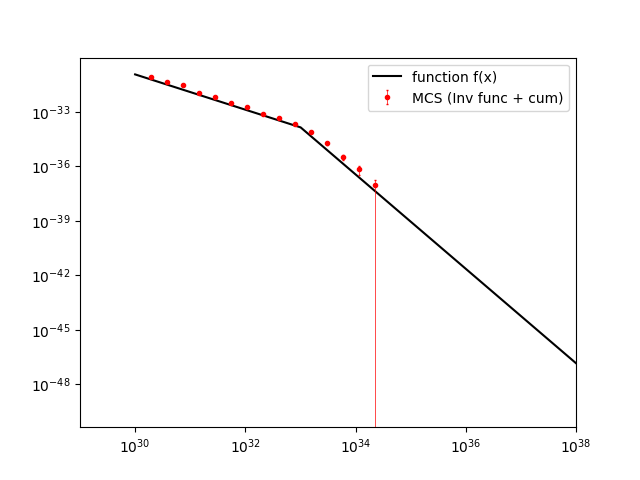
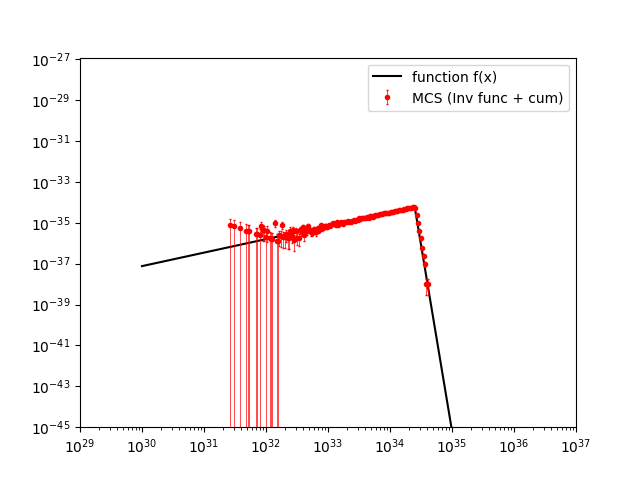
comments + comparing section + function improv

diff --git a/Montecarlo/montecarlo_test.py b/Montecarlo/montecarlo_test.py
@@ -15,7 +15,7 @@ from tools import bounded_norm_distr, bisection, newton_root_finder, log_scale_i
 start_time = time.monotonic()
 
 
-exercise = 5  #to execute only one exercise at time
+exercise = 9      #to execute only one exercise at time
 
 #**************************************************************
 #plotting config
@@ -92,7 +92,7 @@ elif exercise == 2:
 #REJECTION-ACCEPTANCE METHOD SAMPLING
 elif exercise == 3 :
  #RAM parameters
-    rng = np.random.default_rng()
+
 
     x_min = -1.0                            #interval of interest
     x_max = 1.0
@@ -101,7 +101,8 @@ elif exercise == 3 :
     sample_dim = 1.0e2                      #number of points in the sample
     n_bins = round(sample_dim**0.5)         #numbers of bins for scatter/hist plot
     M = 20.0                                # Parameter of selection (must be as small as possible) 
-  #-----------------------------------------------
+    rng = np.random.default_rng()
+ #-----------------------------------------------
  #Gaussian distr parameters   
     sigma = 1.0 
     mu = 0.0
@@ -110,8 +111,6 @@ elif exercise == 3 :
     k = 1.0       
     alpha = -2.0
     beta = 1.0
-
-    arg = ()  
     
     test_func = 1                   #use this to move between test functions f(x)         
 
@@ -140,7 +139,7 @@ elif exercise == 3 :
         #y = normal_distr(mu, sigma)
         u = rng.random()
 
-        discr = func_norm(y, myfunc, arg, x_min, x_max, 1.0) / M / gaussian(y, mu, sigma, x_min, x_max)
+        discr = func_norm(y, myfunc, x_min, x_max, 1.0) / M / gaussian(y, mu, sigma, x_min, x_max)
         if u < discr : 
             temp.append(y)
             counter += 1
@@ -167,7 +166,7 @@ elif exercise == 3 :
     #count, bins, ignored = ax.hist(x, n_bins, density=True)
     #ax.scatter(bin_means, y_n, marker = marker_st, color = marker_color)
     ax.errorbar(bin_means, y_n , yerr = y_err, color='r', capsize=1, capthick=1,ls='', elinewidth=0.5,marker='o',markersize=3, label = 'MCS (Rej-Acc method)')
-    ax.plot(draw, func_norm(draw, myfunc, arg, x_min, x_max, sample_dim)* bin_dim, color = "black", label = "function f(x)")
+    ax.plot(draw, func_norm(draw, myfunc, x_min, x_max, sample_dim)* bin_dim, color = "black", label = "function f(x)")
     #ax.plot(draw, myfunc(draw) /i , color = "black", label = "function f(x)")
 
 
@@ -176,7 +175,7 @@ elif exercise == 3 :
     plt.savefig(os.path.join("RAM_function_sample.png"))
 
 #**************************************************************
-#REJECTION-ACCEPTANCE METHOD MULTIPLE-SAMPLING
+#REJECTION-ACCEPTANCE METHOD MULTIPLE-SAMPLING (not working now)
 elif exercise == 4 : 
     
     x_min = 0.0
@@ -197,9 +196,9 @@ elif exercise == 4 :
 
     fig, ax = plt.subplots()
     
-    def func_norm(x, func, arg, x_min, x_max, sam_dim):
+    def func_norm(x, func, arg, x_min, x_max, sample_dim):
         i =  integrate.quad(func,x_min, x_max, arg, epsabs=abs_err, epsrel=rel_err)[0]
-        return func(x, *arg) / i * sam_dim
+        return func(x, *arg) / i * sample_dim
     
     def gaussian_norm(x , x0, sigma, x_min, x_max):
         norm1 = 1.0 / sigma / (2.0 * np.pi)**0.5
@@ -297,14 +296,14 @@ elif exercise == 5 :
     #plot and function arguments
     fig, ax = plt.subplots()
     arg1 = ()
-    arg = (myfunc, arg1, x_min)
+    arg = (myfunc, x_min)
  #-----------------------------------------------
  
     temp = []
     while counter < sample_dim:     #algorithm implementation
         u = rng.random()
         
-        zeros = fsolve(func_shifter, x_min, (accum_func, arg, u), xtol= tol) #use of fsolve !TAKE CARE OF EXTIMATOR!  
+        zeros = fsolve(func_shifter, x_min, (accum_func,u, arg), xtol= tol) #use of fsolve !TAKE CARE OF EXTIMATOR!  
         y = zeros
         temp.append(y)
         counter +=1
@@ -367,22 +366,13 @@ elif exercise == 6 :
     fig, ax = plt.subplots()
     arg1 = ()
     arg = (myfunc, arg1, x_min)
-
-    def accum_func(a, func, arg, min):
-        acc = integrate.quad(func, min, a, arg, epsabs=0.0, epsrel=1.0e-13)[0]
-        return acc
-    
-    def func_shifter(x, func, args, value):
-        shifted = func(x, *args) - value
-        return shifted
-    
     if bisec:
         temp = []
         counter = 0
         while counter < sample_dim:
             u = rng.random()
         
-            y = bisection(func_shifter, (accum_func, arg, u), x_min, x_max, tol, n_max)
+            y = bisection(func_shifter, (accum_func, u), x_min, x_max, tol, n_max)
         
             temp.append(y)
             counter +=1
@@ -408,7 +398,7 @@ elif exercise == 6 :
         while counter < sample_dim:
             u = rng.random()
         
-            y = newton_root_finder(func_shifter, myfunc, (accum_func, arg, u), arg1, x_min, x_max, tol, n_max)
+            y = newton_root_finder(func_shifter, myfunc, (accum_func, u), arg1, x_min, x_max, tol, n_max)
         
             temp.append(y)
             counter +=1
@@ -508,22 +498,22 @@ elif exercise == 7 :
 #INVERSE FUNCTION (ACCUMULATION) METHOD SAMPLING (cum func method on lum func)
 elif exercise == 8 :
     x_min = 1.0e30             #interval of interest
-    x_max = 1.0e3
+    x_max = 1.0e37
  #-----------------------------------------------
     #drawing instructions
     draw = np.geomspace(x_min, x_max, 10000)
     draw_min = 1.0e29
     draw_max = 1.0e38
     fig, ax = plt.subplots()
-    ax.set_xlim(draw_min, draw_max)
-    #plt.ylim(1.0e-45 , 1.2e-27)
+    ax.set_xlim(draw_min, x_max)
+    plt.ylim(1.0e-45 , 1.2e-27)
 
  #-----------------------------------------------
-    sample_dim = 1.0e3              
+    sample_dim = 1.0e5            
     n_bins = round(sample_dim**0.5)
 
-
-    test_func = 0
+ #-----------------------------------------------
+    test_func = 1
     if test_func == 0: 
         arg = (1.0, 1.0e33, 0.97, 2.6)      #disk data for ex
         def myfunc(x, norm, x_b, n1, n2):   #broken power law function  (be carefull about exponential renorm)  
@@ -547,9 +537,9 @@ elif exercise == 8 :
 
  #--------------------------
 
-    cum_points = np.geomspace(x_min, x_max, n_bins)    #points where to evaluate cum funct (to be fixed)
+    cum_points = np.geomspace(x_min, x_max, n_bins, endpoint = False)    #points where to evaluate cum funct (to be fixed)
     norm = log_scale_int(myfunc, x_min, x_max, arg)[0]
-    
+
     bin_dim = np.ones(n_bins)                           #bins width
     for i in range(1, len(cum_points)):
         bin_dim[i] = cum_points[i] - cum_points[i-1]
@@ -558,7 +548,6 @@ elif exercise == 8 :
     for i in range(len(cum_points)):                    #evaluation of cumulative function in the selected points
         integral = log_scale_int(myfunc, x_min, cum_points[i],arg)
         cum_values[i] = integral[0] / norm              #normalized
-
 
     #rng = np.random.default_rng()
     #u = rng.random(sample_dim)
@@ -575,6 +564,13 @@ elif exercise == 8 :
         y_n[step] +=1
 
  #-----------------------------------------------
+  #print controls
+    #print(cum_points)
+    #print(bin_dim)
+    #print(cum_values)
+    #print(y_n)
+
+ #-----------------------------------------------
     #plot
     vector_func = np.vectorize(myfunc)
     y_draw = vector_func(draw, *arg)
@@ -589,7 +585,7 @@ elif exercise == 8 :
     plt.savefig(os.path.join("inv_func_sample_lum_func.png"))
 
 #**************************************************************
-#COMPARING (simple func and lum func)
+#COMPARING (simple func)
 elif exercise == 9:
     x_min = -1.0                    #interval of interest
     x_max = 1.0
@@ -598,7 +594,7 @@ elif exercise == 9:
     fig, ax = plt.subplots()
 
  #-----------------------------------------------
-    sample_dim = 1.0e3                      #sample dimension
+    sample_dim = 1.0e2                      #sample dimension
     n_bins = round(sample_dim**0.5)         #number of bins
     bin_dim = (x_max - x_min) / n_bins      #bins width
 
@@ -607,9 +603,9 @@ elif exercise == 9:
     k = 1.0
     alpha = -2.0
     beta = 1.0
-    arg = ()
+    args = ()
 
-    test_func = 0
+    test_func = 1
     if test_func == 0: 
         def myfunc(x):
             #log parabola
@@ -624,41 +620,129 @@ elif exercise == 9:
 
             return (-x+2.0)
  #-----------------------------------------------
+ #cumulative
+    start_time = time.monotonic()
 
     cum_points = np.linspace(x_min, x_max, n_bins)    #points where to evaluate cum funct
-    norm = integrate.quad(myfunc, x_min, x_max, arg, epsabs= abs_err, epsrel=rel_err)[0] #normalization to unit
+    norm = integrate.quad(myfunc, x_min, x_max, args, epsabs= abs_err, epsrel=rel_err)[0] #normalization to unit
 
     cum_values = np.zeros(len(cum_points))      
     for i in range(len(cum_points)):                   #evaluation of cumulative function in the selected points
-        integral = integrate.quad(myfunc, x_min, cum_points[i], arg, epsabs= abs_err, epsrel=rel_err)[0]
+        integral = integrate.quad(myfunc, x_min, cum_points[i], args, epsabs= abs_err, epsrel=rel_err)[0]
         cum_values[i] = integral / norm #normalized
 
-    #rng = np.random.default_rng()
-    #u = rng.random(sample_dim)
     u = np.random.random_sample(int(sample_dim))
 
     x = np.zeros(int(sample_dim))
-    y_n = np.zeros(n_bins)              #count how many cases are in a bin
+    y_n_cum = np.zeros(n_bins)              #count how many cases are in a bin
     for i in range(0 , int(sample_dim)):
         step = 0
         while (cum_values[step] < u[i]):
             step += 1
             
         x[i] = cum_values[step]
-        y_n[step] +=1
+        y_n_cum[step] +=1
+
+    end_time = time.monotonic()
+    print("Cumulative tech. execution time: " , timedelta(seconds= end_time - start_time))
 
  #-----------------------------------------------
-    #plot
+ #fsolve
+    start_time = time.monotonic()
+
+    counter = 0                             # numb of success
+    tol = 1.0e-10                           #desired tollerance (must be compatible with rel err of integrals)
+    mid = (x_max + x_min)/2.0               #middle point can be use as first extimator
+    
+
+    arg = (func_norm, x_min, (myfunc, x_min, x_max))
+
+    rng = np.random.default_rng()           #random seed
+
+    temp = []
+    while counter < sample_dim:     #algorithm implementation
+        u = rng.random()
+        
+        zeros = fsolve(func_shifter, mid, (accum_func, u, arg), xtol= tol) #use of fsolve !TAKE CARE OF EXTIMATOR!  
+        y = zeros
+        temp.append(y)
+        counter +=1
+
+    x_fs = np.array(temp)
+
+    end_time = time.monotonic()
+    print("fsolve execution time: " , timedelta(seconds= end_time - start_time))
+ #-----------------------------------------------
+ #rejection
+    start_time = time.monotonic()
+    M = 20.0                                # Parameter of selection (must be as small as possible) 
+    sigma = 1.0 
+    mu = 0.0
+    rng = np.random.default_rng()
+
+    temp = []
+
+    counter = 0                     #counter of successfully selected points 
+    iter = 0                        #iterations need to collect the desired number of accepted points
+    while counter < sample_dim:     #algorithm implementation
+
+        y = bounded_norm_distr(mu, sigma, x_min, x_max)         
+        #y = normal_distr(mu, sigma)
+        u = rng.random()
+
+        discr = func_norm(y, myfunc, x_min, x_max, 1.0) / M / gaussian(y, mu, sigma, x_min, x_max)
+        if u < discr : 
+            temp.append(y)
+            counter += 1
+        iter += 1 
+
+    x_rej = np.array(temp)
+
+
+
+    end_time = time.monotonic()
+    print("Rejection execution time: " , timedelta(seconds= end_time - start_time))
+    print("Iterations needed for rejection method: ", iter)
+ #-----------------------------------------------
+
+    #plots
+
     vector_func = np.vectorize(myfunc)
-    y_draw = vector_func(draw, *arg)
+    y_draw = vector_func(draw, *args)
     ax.plot(draw, y_draw/norm*sample_dim*bin_dim, color = "black", label = "function f(x)")
 
-    y_err = y_n ** 0.5
+    #cumulative
+    y_err_cum = y_n_cum ** 0.5
     #count, bins, ignored = ax.hist(x, n_bins, density=True)
-    ax.errorbar(cum_points[1:], y_n[1:] , yerr = y_err[1:], color='r', capsize=1, capthick=1,ls='', elinewidth=0.5,marker='o',markersize=3, label = 'MCS (Inv func + cum)')
+    ax.errorbar(cum_points[1:], y_n_cum[1:] , yerr = y_err_cum[1:], color='r', capsize=1, capthick=1,ls='', elinewidth=0.5,marker='o',markersize=3, label = 'Inv func + cum')
 
+    #fsolve
+    y_n_fs, bin_edges_fs = np.histogram(x_fs, n_bins, density = False)
+    bin_means_fs = np.zeros(len(bin_edges_fs)-1)
+    for n in range(0 , len(bin_edges_fs)-1):
+        bin_means_fs[n] = (bin_edges_fs[n+1] + bin_edges_fs[n]) * 0.5     #mid point of my bins  
+    
+    bin_dim_fs = np.diff(bin_edges_fs)[0]                              #bins width
+
+    y_err_fs = (y_n_fs)**0.5                                          #error on counts
+    #count, bins, ignored = ax.hist(x, n_bins, density=True)
+    ax.errorbar(bin_means_fs, y_n_fs , yerr = y_err_fs, color='blue', capsize=1, capthick=1,ls='', elinewidth=0.5,marker='o',markersize=3, label = 'Inv func + fsolve')
+    
+    #rejection
+    y_n_rej, bin_edges_rej = np.histogram(x_rej, n_bins, density = False)
+    bin_means_rej = np.zeros(len(bin_edges_rej)-1)
+    for n in range(0 , len(bin_edges_rej)-1):
+        bin_means_rej[n] = (bin_edges_rej[n+1] + bin_edges_rej[n]) * 0.5       #mid point of bins
+    
+    bin_dim_rej = np.diff(bin_edges_rej)[0]                                #bins width
+
+
+    #print(np.sum(y_n/sample_dim))
+    y_err_rej = (y_n_rej)**0.5                                              #error on counts
+    ax.errorbar(bin_means_rej, y_n_rej , yerr = y_err_rej, color='g', capsize=1, capthick=1,ls='', elinewidth=0.5,marker='o',markersize=3, label = 'Rej-Acc method')
+    
     plt.legend()
-    plt.savefig(os.path.join("inv_func_sample(cumulative).png"))
+    plt.savefig(os.path.join("comparing.png"))
 
 end_time = time.monotonic()
 print("Execution time: " , timedelta(seconds= end_time - start_time))

diff --git a/toolbox/tools.py b/toolbox/tools.py
@@ -91,20 +91,20 @@ def newton_root_finder(func, func_prime, arg, arg_prime, a, c, tol=1.0e8, n_max=
 #*************************************************************
 #Function modifications
 
-def func_norm(x, func, arg, x_min, x_max, normal, abs_err =0.0, rel_err=1.0e8):
+def func_norm(x, func, x_min, x_max, normal=1.0, arg=(), abs_err =0.0, rel_err=1.0e8):
     #takes a function "func" with arguments "arg" and normalize it to "normal" on the range (x_min; x_max)
-    # options for integration procedure are pre-selected but can be modified
+    # options for integration procedure are pre-seleceed but can be modified
     i =  integrate.quad(func,x_min, x_max, arg, epsabs=abs_err, epsrel=rel_err)[0]
     return func(x, *arg) / i * normal
 #-------------------------------------------------------
    
-def accum_func(a, func, arg, min):
+def accum_func(a, func, min, arg = ()):
     #evaluate the accumulation function of a function func from min to a, Use arg for add argument of the function
     acc = integrate.quad(func, min, a, arg, epsabs=0.0, epsrel=1.0e-12)[0]
     return acc
 #-------------------------------------------------------
   
-def func_shifter(x, func, args, value):
+def func_shifter(x, func, value, args= ()):
     #Take a function func (with arguments args) and shifted it by value
     shifted = func(x, *args) - value
     return shifted
@@ -145,7 +145,7 @@ def log_range_conv(x1, x2, inf_approx = 1.0e50):
     return [y1, y2]
 #-------------------------------------------------------
 
-def integrand_log(y, func, arg):
+def integrand_log(y, func, arg=()):
     #tranf a integrand into its log scaled form
     #y: variable of the func; func: func of which tha log scaling is desired; arg: arguments of func
     return np.log(10) * 10**y * func(10**y, *arg)
